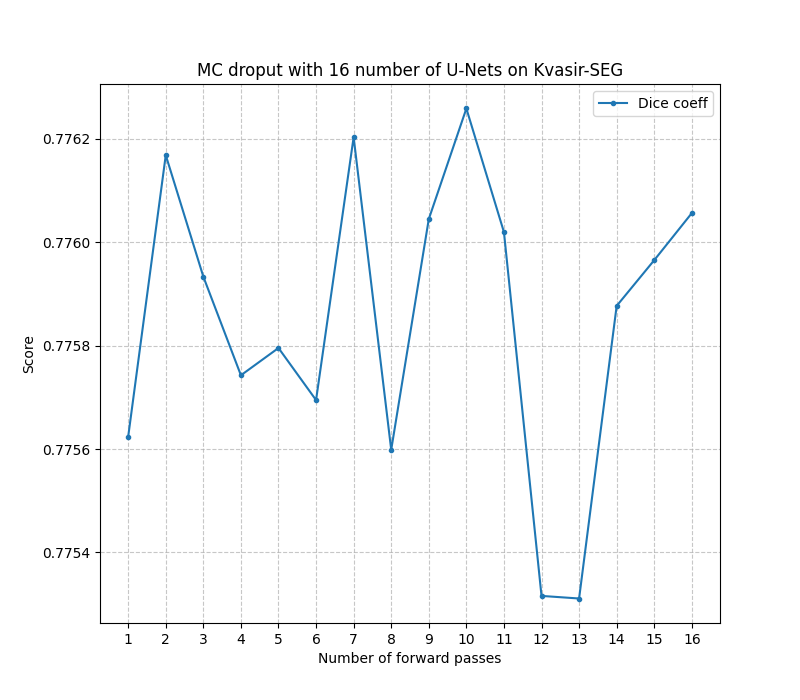
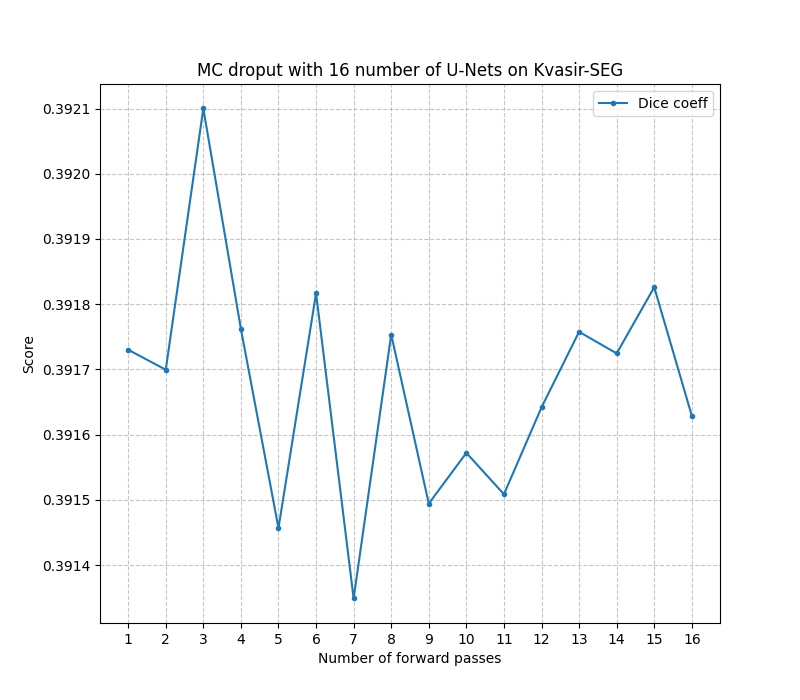
minor

diff --git a/src/mc_dropout.py b/src/mc_dropout.py
@@ -165,7 +165,7 @@ def test_MC_dropout(model, forward_passes, loader, device, load_folder, img_fold
     print(f"Dice={mean_dice} for N={forward_passes} forward passes")
 
 
-def plot_models_vs_dice(model, forward_passes, loader, device, load_folder, save_plot_path):
+def plot_models_vs_dice(model, forward_passes, loader, device, load_folder, save_plot_path, model_name):
 
     dice = []
     for passes in range(1, forward_passes+1):
@@ -189,9 +189,9 @@ def plot_models_vs_dice(model, forward_passes, loader, device, load_folder, save
     plt.xlabel("Number of forward passes")
     plt.ylabel("Score")
     plt.title(
-        f"MC droput with {forward_passes} number of U-Nets on Kvasir-SEG"
+        f"MC droput with {forward_passes} number of {mmodel_name} on Kvasir-SEG"
     )
-    plt.savefig(save_plot_path + f"unet_dropout_{forward_passes}_models.png")
+    plt.savefig(save_plot_path + f"{model_name}_dropout_{forward_passes}_models.png")
 
 
 if __name__ == "__main__":
@@ -236,10 +236,10 @@ if __name__ == "__main__":
 
     passes = 5
     img_folder = (
-        "/home/feliciaj/PolypSegmentation/results/results_kvasir/mc_dropout_unet_bce"
+        "/home/feliciaj/PolypSegmentation/results/results_kvasir/mc_dropout_resunet++_dice"
     )
     load_path = (
-        "/home/feliciaj/PolypSegmentation/saved_models/unet_dropout_BCE/unet_dropout.pt"
+        "/home/feliciaj/PolypSegmentation/saved_models/resunet++_dropout_BCE/resunet++_dropout_1.pt"
     )
 
     """
@@ -255,9 +255,18 @@ if __name__ == "__main__":
 
     _, _, test_loader = loaders
     forward_passes = 16
-    model = UNet_dropout(3, 1).to(device)
+    model = ResUnetPlusPlus_dropout(3,1).to(device) #UNet_dropout(3, 1).to(device)
     load_folder = load_path
+    model_name = "Resunet++"
 
     test_MC_dropout(model, forward_passes, test_loader, device, load_folder, img_folder)
 
-    plot_models_vs_dice(model, forward_passes, test_loader, device, load_folder, save_plot_path)
+    plot_models_vs_dice(
+        model, 
+        forward_passes, 
+        test_loader, 
+        device, 
+        load_folder, 
+        save_plot_path, 
+        model_name,
+    )

diff --git a/src/deep_ensemble.py b/src/deep_ensemble.py
@@ -218,7 +218,24 @@ def dice_list():
 
     resunetplusplus_dropout_dice = []
     
-    resunetplusplus_dropout_BCE = []
+    resunetplusplus_dropout_BCE = [
+        0.3917301728491076, 
+        0.3916995250953805, 
+        0.39210001195623595, 
+        0.3917620228568783, 
+        0.3914567962647908, 
+        0.3918167266812599, 
+        0.3913487937945471, 
+        0.39175347994074483, 
+        0.39149430853159234, 
+        0.39157202402106955, 
+        0.3915086573008246, 
+        0.3916418071079308, 
+        0.3917576828979201, 
+        0.3917245195165765, 
+        0.3918260351406787, 
+        0.3916288094669015
+    ]
 
 
     return unet_BCE, unet_dice, resunetplusplus_dice, resunetplusplus_BCE, unet_dropout_dice, unet_dropout_bce
